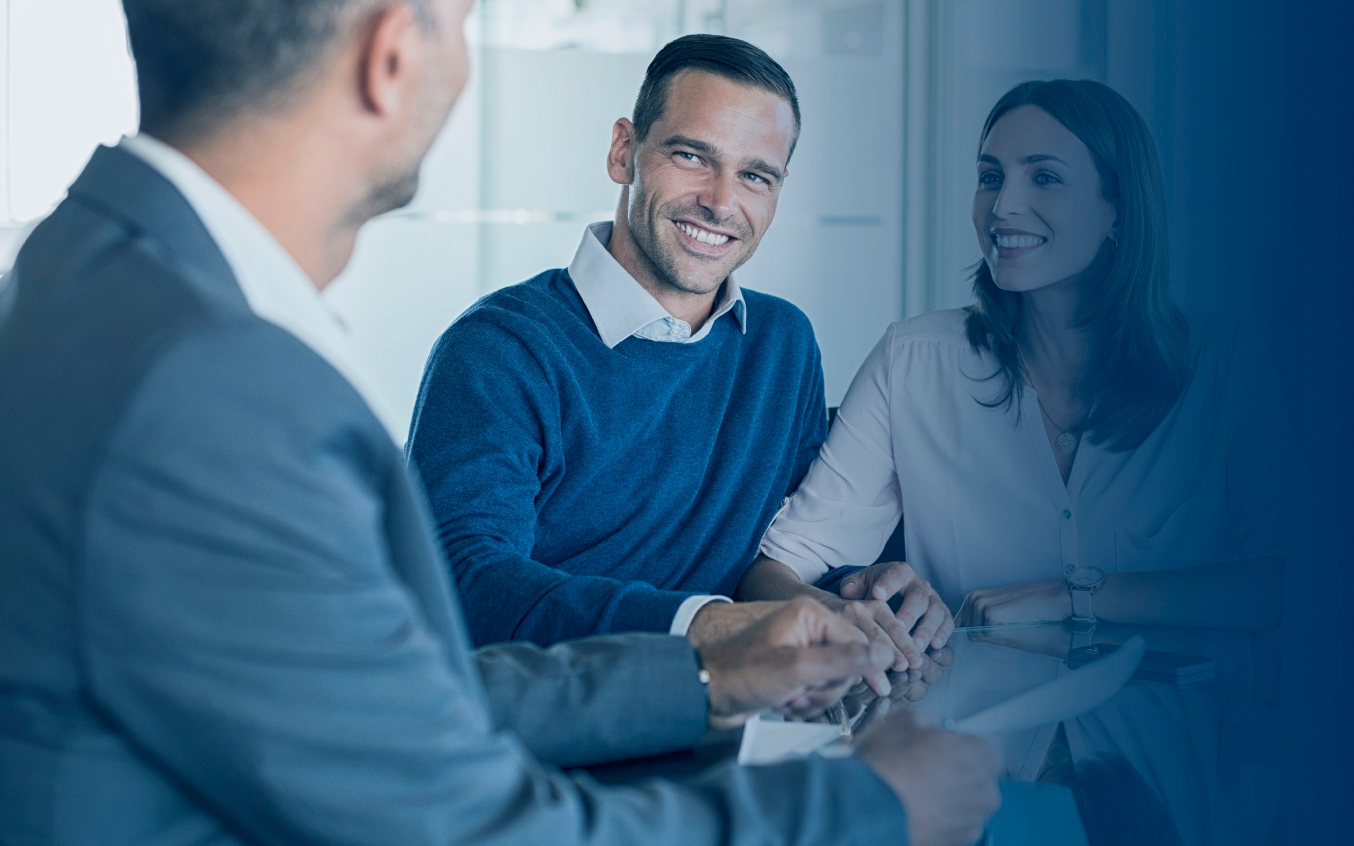
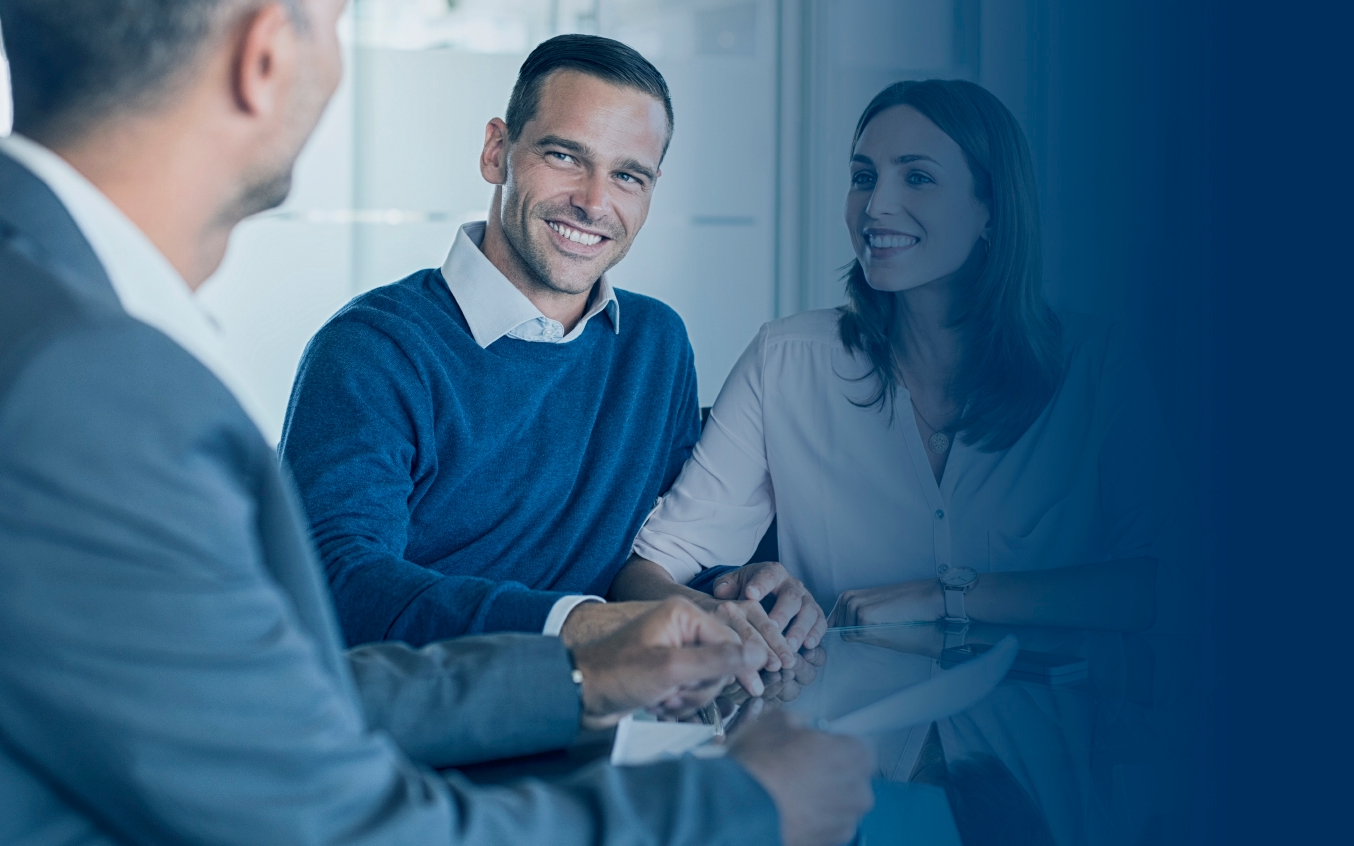
Arreglos de imagenes

diff --git a/views/home.html b/views/home.html
@@ -94,20 +94,20 @@
             <div class="carousel-item active">
               <img
                 src="../public/img/stock1.png"
-                class="d-block w-100 h-10"
-                alt="..."
-              />
-            </div>
-            <div class="carousel-item">
-              <img
-                src="../public/img/stock2.jpg"
                 class="d-block w-100"
                 alt="..."
               />
             </div>
             <div class="carousel-item">
               <img
-                src="../public/img/stock3.jpg"
+                src="../public/img/stock2.png"
+                class="d-block w-100"
+                alt="..."
+              />
+            </div>
+            <div class="carousel-item">
+              <img
+                src="../public/img/stock3.png"
                 class="d-block w-100"
                 alt="..."
               />
